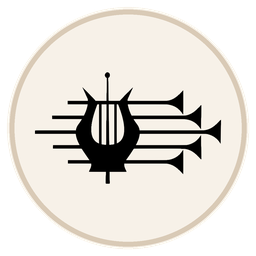
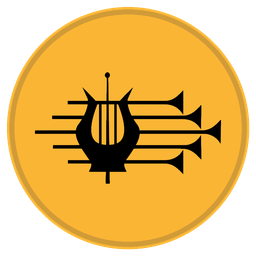
style(static-site): match philharmonic medallion yellow

diff --git a/site/src/assets/organizers/source/README.md b/site/src/assets/organizers/source/README.md
@@ -8,7 +8,7 @@ These files are official/source-faithful inputs for the first event-page organiz
 | --- | --- | --- | --- | --- | --- |
 | `world-ocean-museum` | Музей Мирового океана | https://www.world-ocean.ru/ | https://www.world-ocean.ru/images/main/logo_new_mobile_v2.svg | `/assets/organizers/world-ocean-museum.webp` / `/assets/organizers/world-ocean-museum.png` | Из официального мобильного SVG-логотипа использован крупный знак ММО без мелкой подписи, чтобы медальон читался на 44–56 px. |
 | `history-art-museum` | Историко-художественный музей | https://koihm.ru/ | https://koihm.ru/wp-content/uploads/2026/03/logo_koihm_white.png | `/assets/organizers/history-art-museum.webp` / `/assets/organizers/history-art-museum.png` | Из официального белого PNG-логотипа использована левая часть со зданием и подписью КОИХМ; тёмный круг нужен для контраста. |
-| `kaliningrad-philharmonic` | Калининградская филармония | https://filarmonia39.ru/ | https://filarmonia39.ru/local/templates/filarmonia/images/logo_black.svg | `/assets/organizers/kaliningrad-philharmonic.webp` / `/assets/organizers/kaliningrad-philharmonic.png` | Официальный чёрный SVG-знак вписан в тёплый круг без перерисовки. |
+| `kaliningrad-philharmonic` | Калининградская филармония | https://filarmonia39.ru/ | https://filarmonia39.ru/local/templates/filarmonia/images/logo_black.svg | `/assets/organizers/kaliningrad-philharmonic.webp` / `/assets/organizers/kaliningrad-philharmonic.png` | Официальный чёрный SVG-знак вписан в жёлтый круг #FAB534, как в текущем аватаре Telegram-канала https://t.me/filarmonia_39; знак не перерисовывался. |
 | `kant-island` | Остров Канта | https://sobor39.ru/ | https://sobor39.ru/images/logo.svg | `/assets/organizers/kant-island.webp` / `/assets/organizers/kant-island.png` | Из официального горизонтального SVG-логотипа взят знак Кафедрального собора — самая узнаваемая часть для круглого медальона. |
 
 No OpenAI image generation/editing was used. The medallions were produced by local SVG/PNG rendering, source cropping, and alpha-preserving export.

diff --git a/docs/features/static-site-pages/event-token-medallions.md b/docs/features/static-site-pages/event-token-medallions.md
@@ -106,7 +106,7 @@ The first four organizer avatars are saved as local medallion-ready assets. Runt
 | --- | --- | --- | --- |
 | Музей Мирового океана | `world-ocean-museum` | `/assets/organizers/world-ocean-museum.webp` (`.png` fallback) | official mobile SVG logo from `world-ocean.ru`, cropped to the large `ММО` mark |
 | Историко-художественный музей | `history-art-museum` | `/assets/organizers/history-art-museum.webp` (`.png` fallback) | official white KOIHM PNG from `koihm.ru`, left building/`КОИХМ` mark on a contrast circle |
-| Калининградская филармония | `kaliningrad-philharmonic` | `/assets/organizers/kaliningrad-philharmonic.webp` (`.png` fallback) | official black SVG logo from `filarmonia39.ru` |
+| Калининградская филармония | `kaliningrad-philharmonic` | `/assets/organizers/kaliningrad-philharmonic.webp` (`.png` fallback) | official black SVG logo from `filarmonia39.ru`; yellow background `#FAB534` matched to the current Telegram profile avatar at `t.me/filarmonia_39` |
 | Остров Канта | `kant-island` | `/assets/organizers/kant-island.webp` (`.png` fallback) | official `sobor39.ru` SVG logo, cropped to the cathedral mark |
 
 Asset inventory:

diff --git a/CHANGELOG.md b/CHANGELOG.md
@@ -4,7 +4,7 @@
 
 ### Added
 
-- **Static site pages / event medallion assets**: added the first local organizer avatar medallions for Музей Мирового океана, Историко-художественный музей, Калининградская филармония and Остров Канта, with optimized WebP/PNG runtime assets, source originals/provenance and a `organizerMedallions.json` manifest.
+- **Static site pages / event medallion assets**: added the first local organizer avatar medallions for Музей Мирового океана, Историко-художественный музей, Калининградская филармония and Остров Канта, with optimized WebP/PNG runtime assets, source originals/provenance and a `organizerMedallions.json` manifest; the филармония medallion uses the yellow harp background seen in its Telegram profile avatar.
 
 ### Changed
 
